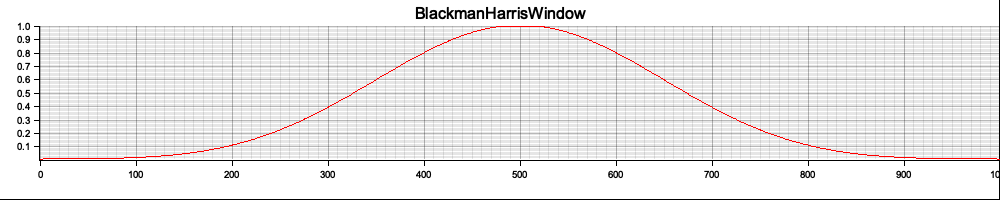
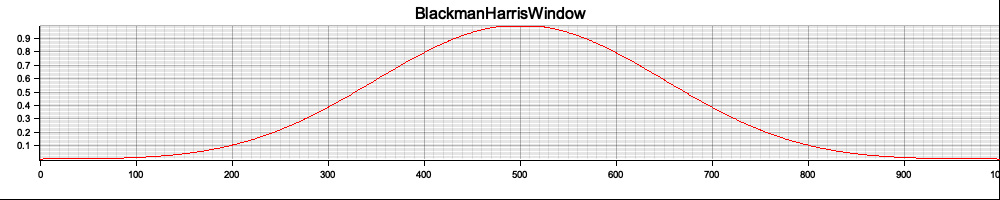
audio-processor-analysis@0.4.0

diff --git a/crates/augmented/audio/audio-processor-analysis/CHANGELOG.md b/crates/augmented/audio/audio-processor-analysis/CHANGELOG.md
@@ -1,3 +1,15 @@
+## v0.4.0
+
+* [`82c3f51e01`](https://github.com/yamadapc/augmented-audio/commits/82c3f51e01) audio-processor-file@1.3.0 (Minor)
+* [`15019459e7`](https://github.com/yamadapc/augmented-audio/commits/15019459e7) audio-processor-testing-helpers@1.3.0 (Minor)
+* [`1a71b2ade4`](https://github.com/yamadapc/augmented-audio/commits/1a71b2ade4) audio-processor-traits@2.2.0 (Minor)
+* [`ba1ae1b559`](https://github.com/yamadapc/augmented-audio/commits/ba1ae1b559) Fix blackman-harris a0 parameter :patch: (Patch)
+* [`c37ceb7866`](https://github.com/yamadapc/augmented-audio/commits/c37ceb7866) Try to fix dependencies on linux (Minor)
+* [`4c9c1bf750`](https://github.com/yamadapc/augmented-audio/commits/4c9c1bf750) Fix build and warnings (Minor)
+* [`566e0436f8`](https://github.com/yamadapc/augmented-audio/commits/566e0436f8) Update with draw spectogram shader (Minor)
+* [`e1096d9a2f`](https://github.com/yamadapc/augmented-audio/commits/e1096d9a2f) Integrate rust audio wave drawing to swift app (Minor)
+* [`1d2a15e217`](https://github.com/yamadapc/augmented-audio/commits/1d2a15e217) Update with basic pass-through level indicators (Minor)
+
 ## v0.3.0
 
 * [`86fd67222`](https://github.com/yamadapc/augmented-audio/commits/86fd67222) audio-processor-file@1.2.0 (Minor)
